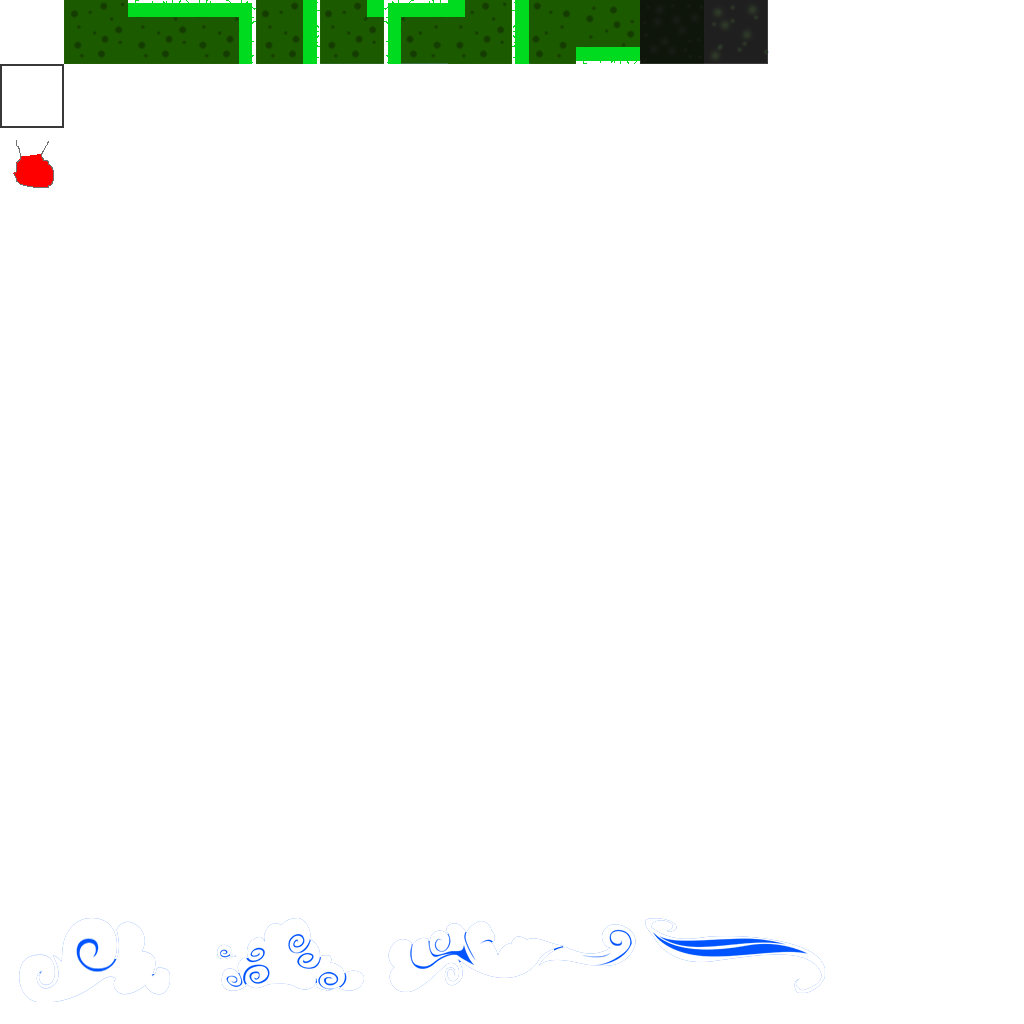
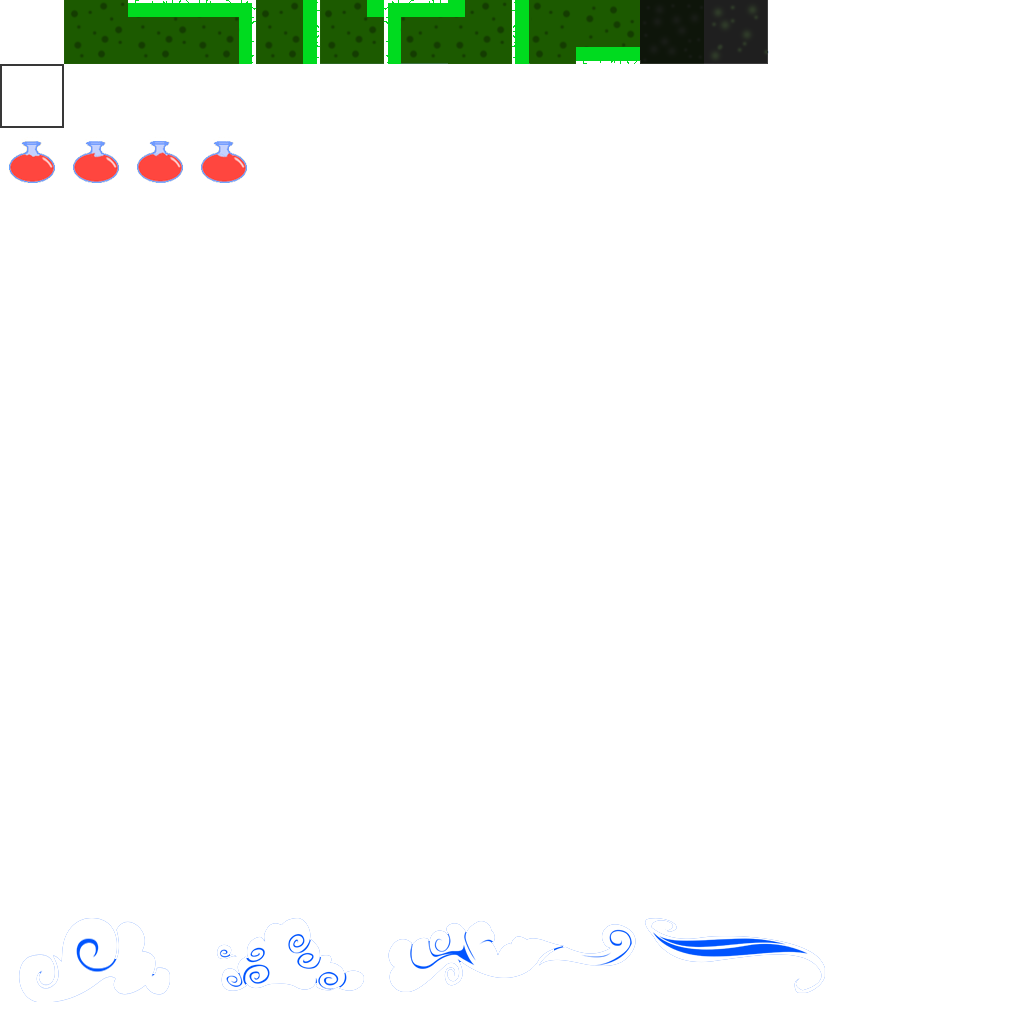
Add animated healthpotion

Changed region(s): [[0.0, 0.125, 0.25, 0.1875]]

diff --git a/PonyTerra/src/Item_HealthPotion.cpp b/PonyTerra/src/Item_HealthPotion.cpp
@@ -3,8 +3,11 @@
 #include "Entity.h"
 #include "Component_Attributes.h"
 #include "IGraphics.h"
+#include "ICommon.h"
 
 CItem_HealthPotion::CItem_HealthPotion(CEntity *owner) : CItem(owner) {
+	animState = 0;
+	lastTicks = 0;
 }
 
 void CItem_HealthPotion::Initialize() {
@@ -20,6 +23,16 @@ bool CItem_HealthPotion::OnUse() {
 	return false;
 }
 
+void CItem_HealthPotion::Update(float dtTime)
+{
+	if(common->GetTicks() - lastTicks > 250) {
+		if(++animState == 4) {
+			animState = 0;
+		}
+		lastTicks = common->GetTicks();
+	}
+}
+
 void CItem_HealthPotion::Draw(CVector2f pos) {
-	graphics->DrawTilesheet(tilesheet, pos, 32, 16, 16, 64, 64, 32.0f, 32.0f);
+	graphics->DrawTilesheet(tilesheet, pos, 32 + animState, 16, 16, 64, 64, 32.0f, 32.0f);
 }

diff --git a/PonyTerra/src/Inventory.cpp b/PonyTerra/src/Inventory.cpp
@@ -140,8 +140,11 @@ void CInventory::UseCurrentItem() {
 }
 
 void CInventory::Update(float dtTime) {
-	if(!open) {
-		return;
+	for(int i = 0; i < 9 * 9; i++) {
+		auto item = GetItem(i);
+		if(item) {
+			item->Update(dtTime);
+		}
 	}
 }
 

diff --git a/PonyTerra/src/Component_Inventory.cpp b/PonyTerra/src/Component_Inventory.cpp
@@ -10,3 +10,8 @@ void CComponent_Inventory::Initialize(CEntity *parent) {
 	inventory = new CInventory(parent, 9 * 9);
 	inventory->Initialize();
 }
+
+void CComponent_Inventory::Update(float dtTime)
+{
+	inventory->Update(dtTime);
+}

diff --git a/PonyTerra/src/Item_Tile.cpp b/PonyTerra/src/Item_Tile.cpp
@@ -26,6 +26,11 @@ bool CItem_Tile::OnUse()
 	return false;
 }
 
+void CItem_Tile::Update(float dtTime)
+{
+
+}
+
 void CItem_Tile::Draw(CVector2f pos)
 {
 	graphics->DrawTilesheet(tilesheet, pos, tileID, 16, 16, 64, 64, 32.0f, 32.0f);

diff --git a/PonyTerra/src/Item.h b/PonyTerra/src/Item.h
@@ -13,6 +13,7 @@ public:
 	virtual void Initialize() = 0;
 	virtual bool OnUse() = 0;
 
+	virtual void Update(float dtTime) = 0;
 	virtual void Draw(CVector2f pos) = 0;
 
 	static CItem *CreateFromID(CEntity *owner, int id);

diff --git a/PonyTerra/src/Item_HealthPotion.h b/PonyTerra/src/Item_HealthPotion.h
@@ -12,10 +12,14 @@ public:
 	void Initialize();
 	bool OnUse();
 
+	void Update(float dtTime);
 	void Draw(CVector2f pos);
 
 private:
 	ITexture *tilesheet;
+
+	unsigned int lastTicks;
+	int animState;
 };
 
 #endif

diff --git a/PonyTerra/src/Item_Tile.h b/PonyTerra/src/Item_Tile.h
@@ -13,6 +13,7 @@ public:
 	void Initialize();
 	bool OnUse();
 
+	void Update(float dtTime);
 	void Draw(CVector2f pos);
 
 private:

diff --git a/PonyTerra/src/Component_Inventory.h b/PonyTerra/src/Component_Inventory.h
@@ -10,6 +10,8 @@ public:
 
 	void Initialize(CEntity *parent);
 
+	void Update(float dtTime);
+
 	CInventory *inventory;
 };
 
